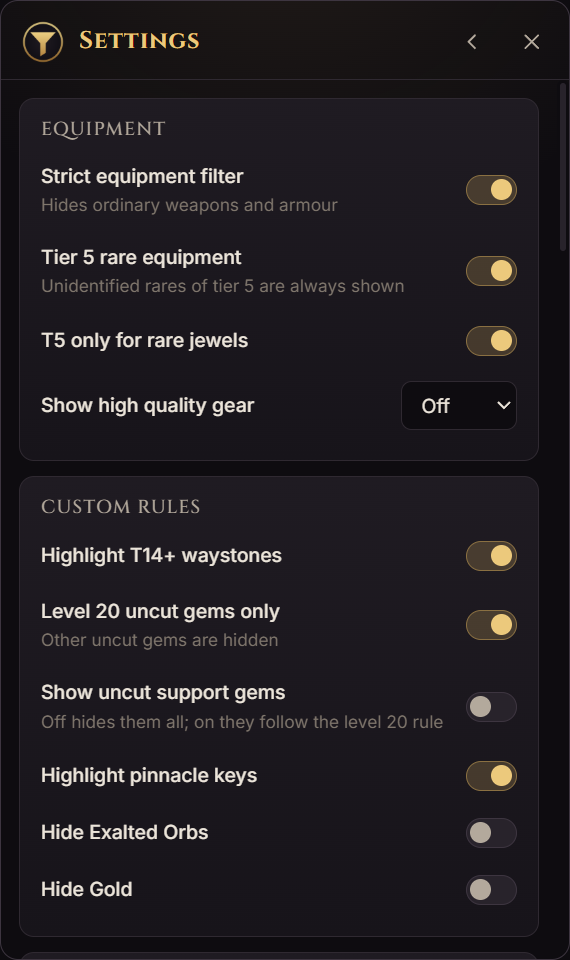
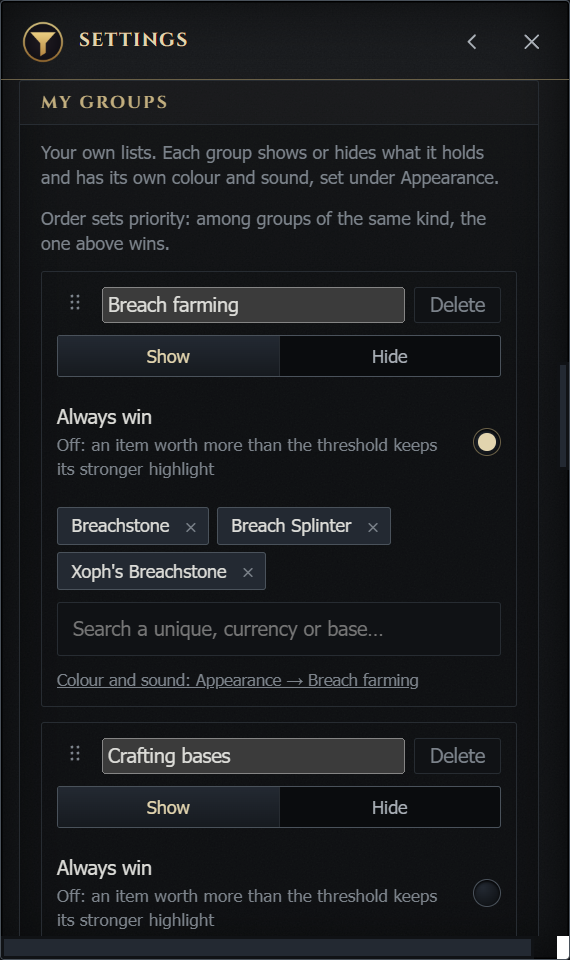
README görsellerini yeni arayüzle tazele
Dört ekran görüntüsü de yeni palet, yeni ad ve aradaki özelliklerle
(profiller, kaydıraçlar, 26 ses) yeniden alındı. Görseller kullanıcının
kendi ayarlarıyla değil, İngilizce ve anlaşılır grup adlarıyla hazırlanmış
bir test kurulumundan; fiyat ve tarama sayıları gerçek.

Başlık da uygulamanın yeni adına çekildi. Eşya etiketlerinin hap şekli
kalmıştı, o da diğer kontroller gibi köşeli oldu.

diff --git a/frontend/src/lib/ListEditor.svelte b/frontend/src/lib/ListEditor.svelte
@@ -140,7 +140,7 @@
     padding: 3px 4px 3px 9px;
     background: var(--surface-3);
     border: 1px solid var(--line-strong);
-    border-radius: 999px;
+    border-radius: var(--radius-sm);
     font-size: 12px;
   }
   .tag button {
@@ -192,7 +192,7 @@
     width: 100%;
     padding: 6px 8px;
     border: 0;
-    border-radius: 5px;
+    border-radius: var(--radius-sm);
     background: transparent;
     text-align: left;
   }
@@ -210,7 +210,7 @@
   .u {
     margin-left: 5px;
     padding: 0 5px;
-    border-radius: 4px;
+    border-radius: var(--radius-sm);
     background: rgba(230, 137, 58, 0.18);
     color: #f0a766;
     font-style: normal;

diff --git a/README.md b/README.md
@@ -1,4 +1,4 @@
-# PoE2 Filtre
+# MrW POE2 Filter
 
 Sistem tepsisinde çalışan, NeverSink'in Path of Exile 2 loot filtresini **canlı piyasa fiyatlarıyla** güncelleyen masaüstü uygulaması (Wails v3 + Svelte).
 
